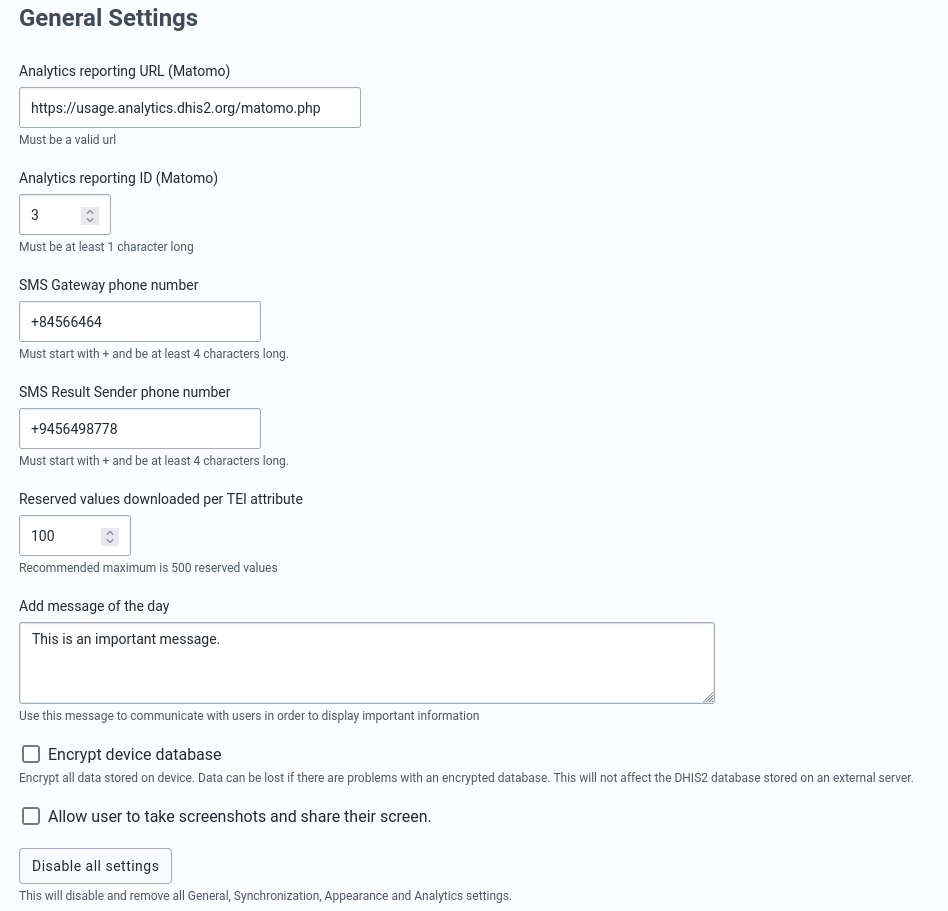
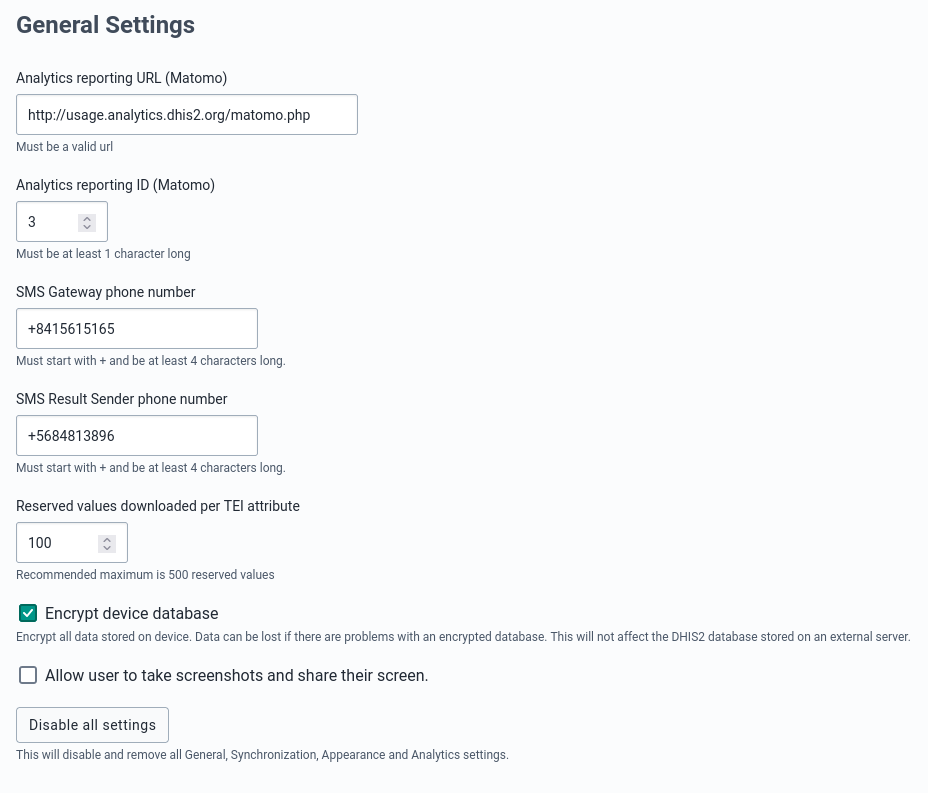
docs: remove Message of the day from documentation

Changed region(s): [[0.0, 0.0, 0.375, 0.7264], [0.0, 0.7566, 0.9688, 0.9987]]

diff --git a/content/capture-app/app-android-settings-configuration.md b/content/capture-app/app-android-settings-configuration.md
@@ -49,9 +49,6 @@ To find this configuration in the Android app:
 ![](resources/images/capture-app-reserved-values.png){width=33%}
 ![](resources/images/capture-app-reserved-values-refill.png){width=33%}
 
-### Message of the day (**New 2.2.1**)
-It is a message displayed to the user after logging in. It can be used as a way to communicate with users in order to display important information like: the privacy policy of the server, the Application version supported, news, etc.
-
 ### Encrypt device database
 This will force all the devices to store the database encrypted increasing the security level against data theft attacks.
 
